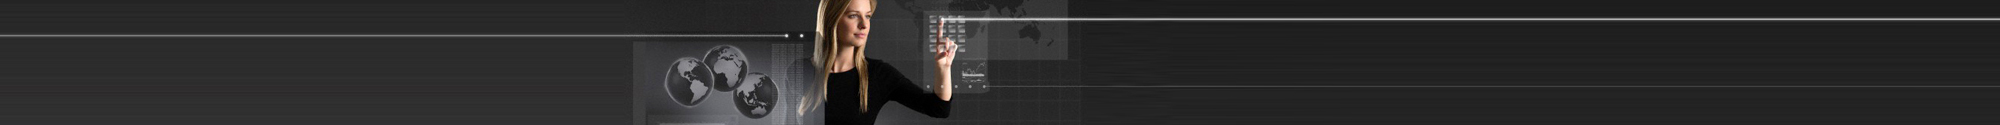
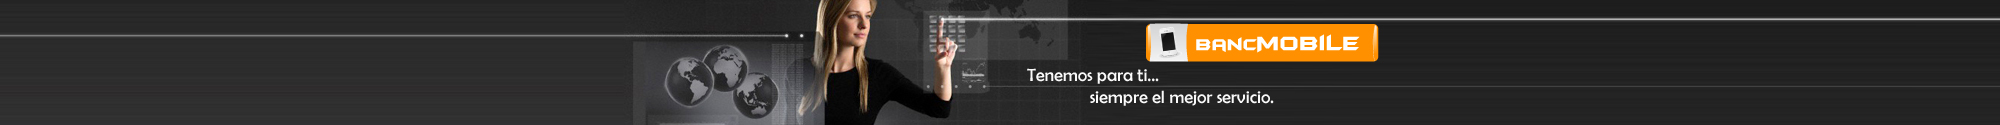
Cambios en slider, archivos Historia
Se agrega cambio de Slider, y se agrega archivo historial en el Model y
Servicios.

Changed region(s): [[0.558, 0.168, 0.713, 0.504], [0.527, 0.744, 0.651, 0.84], [0.496, 0.552, 0.589, 0.648]]

diff --git a/BancMobile/Models/Servicios/HistorialServicios.cs b/BancMobile/Models/Servicios/HistorialServicios.cs
@@ -1,0 +1,67 @@
+using System;
+using System.Collections.Generic;
+using System.Linq;
+using System.Web;
+using BancMobile.Models.Modelos;
+using System.Xml.Linq;
+
+
+namespace BancMobile.Models.Servicios
+{
+    public class HistorialServicios
+    {
+        private string histori = HttpContext.Current.Server.MapPath("~/App_Data/HistorialRecargas.xml");//Devuelve la ruta de acceso del xml
+
+        
+        //public HistorialRecargaModel getHistoria(int idHistorial)
+        //{
+        //    HistorialRecargaModel histori = new HistorialRecargaModel();
+
+        //    XElement xmlHistorialRecargas = XElement.Load(this.histori);
+
+        //    var getHistoria = (from c in xmlHistorialRecargas.Descendants("historialRec")
+        //                       where c.Element("id").Value.Equals(idHistorial.ToString())
+        //                      select c).FirstOrDefault();
+
+        //    histori.idUsuario = Int32.Parse(getHistoria.Element("id").Value);
+        //    histori.idHistorial = getHistoria.Element("idHistorialRecarga").Value;
+        //    histori.fecha = getHistoria.Element("fecha").Value;
+        //    histori.numeroCelular = getHistoria.Element("numeroCelular").Value;
+        //    histori.idCompania = getHistoria.Element("idCompania").Value;
+        //    histori.nombreCompania = getHistoria.Element("nombreCompania").Value;
+        //    histori.valor = getHistoria.Element("valor").Value;
+        //    histori.descripcion_recarga = getHistoria.Element("descripcion_recarga").Value;
+
+        //    return histori;
+        //}
+
+
+        public bool addHistorial(HistorialRecargaModel histori)//Recibo la Hiatoria
+        {
+            try
+            {
+                XElement xmlHistorialRecargas = XElement.Load(this.histori);
+
+                XElement parteXML = new XElement(
+                    new XElement("historialRec", 
+                        new XElement("id", histori.idUsuario),
+                        new XElement("idHistorialRecarga", histori.idHistorial),
+                        new XElement("fecha", histori.fecha),
+                        new XElement("numeroCelular", histori.numeroCelular),
+                        new XElement("idCompania", histori.idCompania),
+                        new XElement("nombreCompania", histori.nombreCompania),
+                        new XElement("valor", histori.valor, histori.valor),
+                        new XElement("descripcion_recarga", histori.descripcion_recarga)
+                        ));
+
+                xmlHistorialRecargas.Element("historialRecargas").Add(parteXML);
+                xmlHistorialRecargas.Save(this.histori);
+                return true;
+            }
+            catch (Exception)
+            {
+                return false;
+            }
+        }
+    }
+}

diff --git a/BancMobile/Models/Modelos/HistorialModel.cs b/BancMobile/Models/Modelos/HistorialModel.cs
@@ -1,0 +1,26 @@
+using System;
+using System.Collections.Generic;
+using System.Linq;
+using System.Web;
+
+namespace BancMobile.Models.Modelos
+{
+    public class HistorialModel
+    {
+       
+    }
+
+    public class HistorialRecargaModel
+    {
+        public int idHistorial { get; set; }
+        public int idUsuario { get; set; }
+        public int numeroCelular { get; set; }
+        public int idCompania { get; set; }
+        public String nombreCompania { get; set; }
+        public int valor { get; set; }
+        public String descripcion_recarga { get; set; }
+        public DateTime fecha { get; set; }
+    }
+
+
+} 
